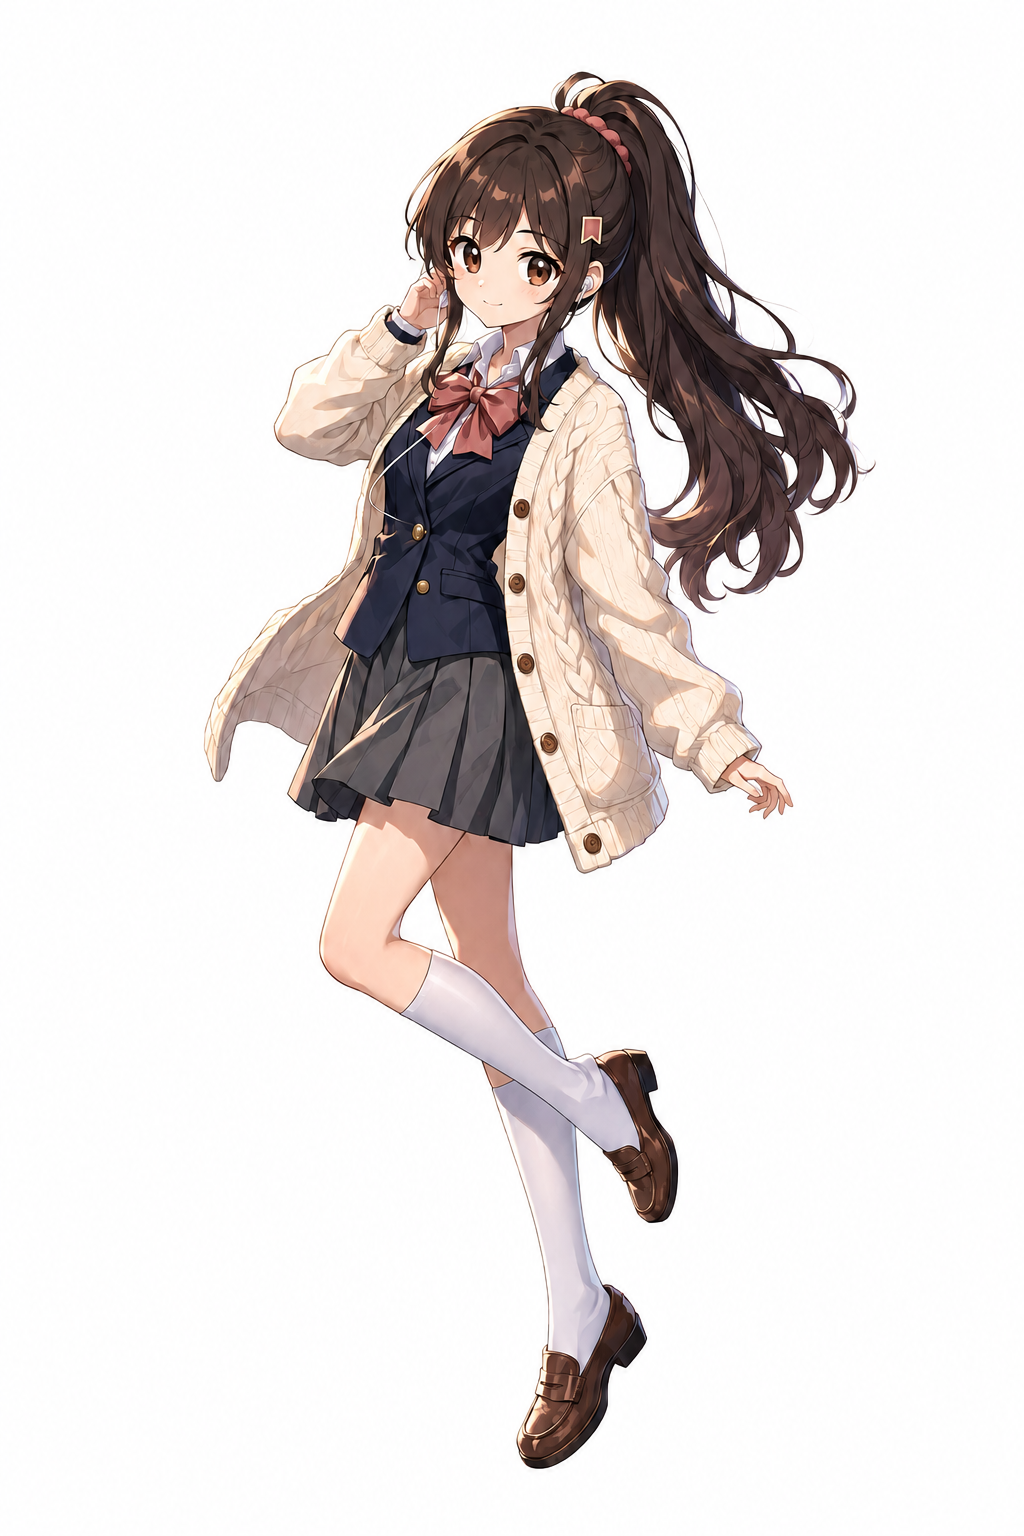
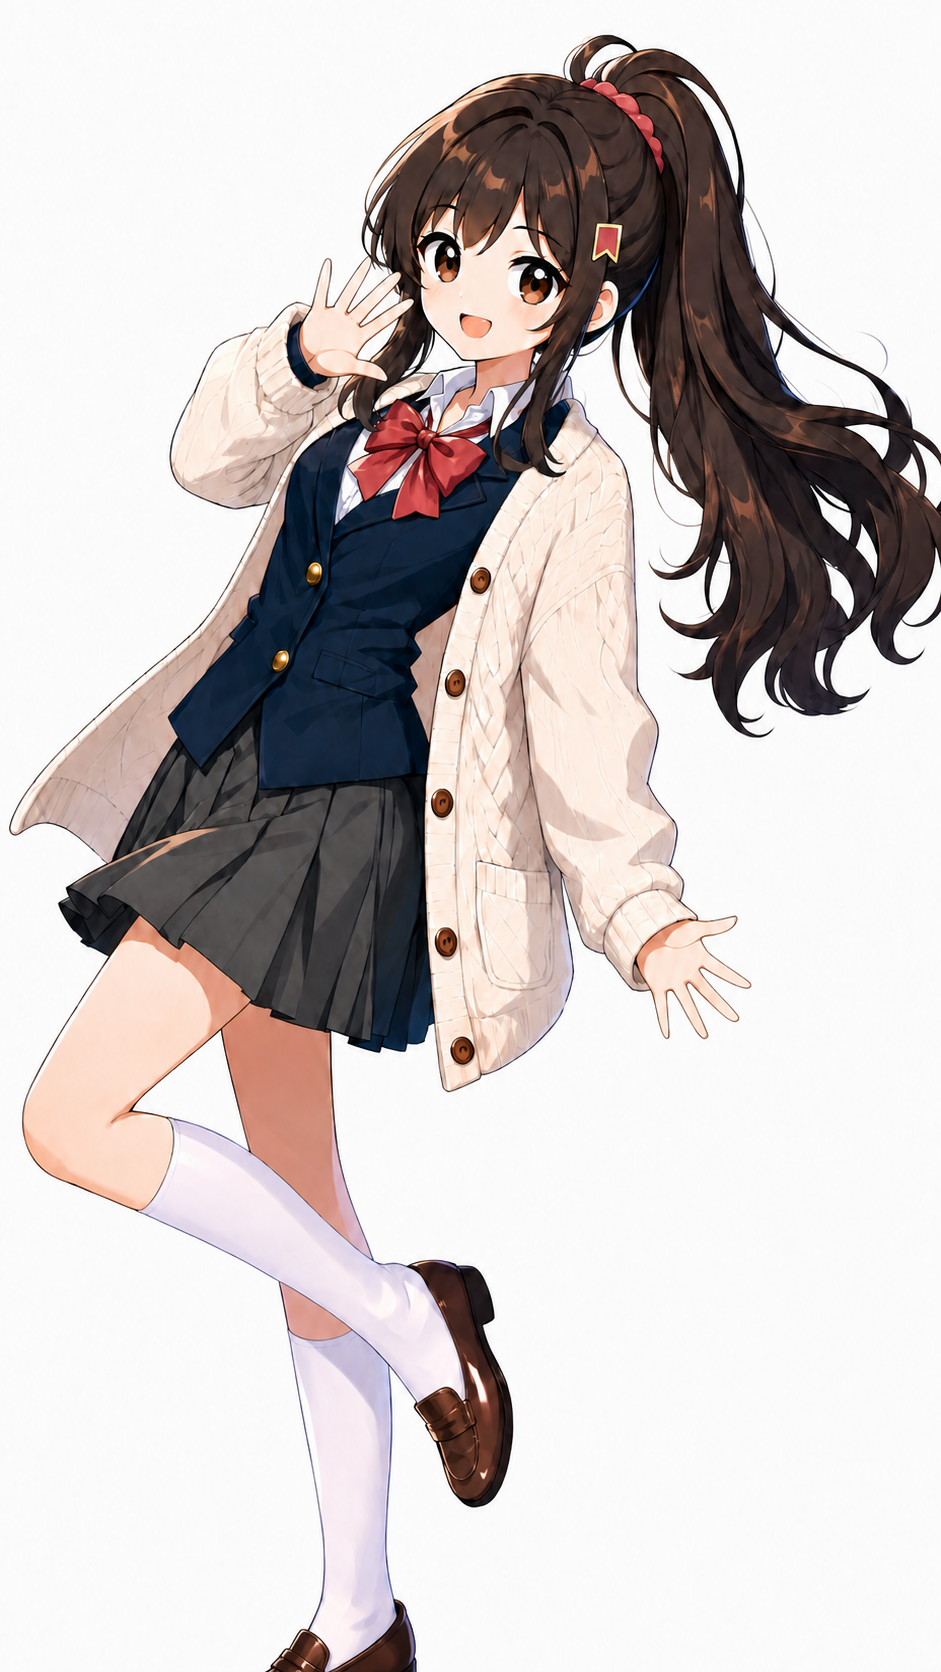
docs:major revision

diff --git a/_page/js/main.js b/_page/js/main.js
@@ -229,39 +229,87 @@
     canvas.style.display = "none";
   }
 
-  /* ───────────────────────── 横向卷轴「日常」 ───────────────────────── */
+  /* ───────────────────────── 横向卷轴「日常」（逐卡停靠） ───────────────────────── */
 
   var stripOuter = document.querySelector(".strip-outer");
   var stripTrack = document.querySelector(".strip-track");
   var wideQuery = window.matchMedia("(min-width: 861px)");
-  var stripDistance = 0;
-  var stripCurrent = 0;
-  var stripTarget = 0;
-  var stripProgress = 0; // 0..1，供度盘用
+  var STEP_VH = 1.2;      // 每张卡吃掉的滚动量（视口高的倍数），越大翻页越"沉"
+  var GLIDE_MS = 1050;    // 每次翻卡的滑移时长（毫秒），越大越从容
+  var stripDistance = 0;  // 横向可平移的最大距离（px）
+  var stripStops = [];    // 每张卡居中时的横向偏移（px）
+  var stripIdx = 0;       // 当前停靠的卡
+  var stripScrollLen = 0; // 整段的竖向滚动配额（px）
+  var stripCurrent = 0;   // 当前横向位置（px，缓动中）
+  var stripGoal = 0;      // 本段滑移的终点
+  var stripFrom = 0;      // 本段滑移的起点
+  var stripT0 = 0;        // 本段滑移的起始时间戳
+  var stripProgress = 0;  // 0..1，供度盘用
 
   function stripLayout() {
     if (!stripOuter || !stripTrack) return;
     if (!wideQuery.matches || reduceMotion) {
       stripOuter.style.height = "";
       stripTrack.style.transform = "";
+      stripTrack.style.paddingLeft = "";
+      stripTrack.style.paddingRight = "";
       stripDistance = 0;
       return;
     }
-    stripDistance = stripTrack.scrollWidth - window.innerWidth;
-    stripOuter.style.height = (window.innerHeight + stripDistance) + "px";
+    var panels = stripTrack.querySelectorAll(".panel");
+    if (!panels.length) return;
+    // 首尾补白：让第一张和最后一张也有"正中央"可停
+    stripTrack.style.paddingLeft = Math.max(0, (window.innerWidth - panels[0].offsetWidth) / 2) + "px";
+    stripTrack.style.paddingRight = Math.max(0, (window.innerWidth - panels[panels.length - 1].offsetWidth) / 2) + "px";
+    // 量出每张卡居中所需的横向偏移
+    stripStops = [];
+    var trackLeft = stripTrack.getBoundingClientRect().left;
+    for (var i = 0; i < panels.length; i++) {
+      var r = panels[i].getBoundingClientRect();
+      stripStops.push(Math.round((r.left - trackLeft) + r.width / 2 - window.innerWidth / 2));
+    }
+    // 平移上限=最后一张的停靠点（flex 容器的 scrollWidth 不含尾部 padding，不可用）
+    stripDistance = Math.max(0, stripStops[stripStops.length - 1]);
+    for (var j = 0; j < stripStops.length; j++) {
+      stripStops[j] = Math.max(0, Math.min(stripDistance, stripStops[j]));
+    }
+    stripIdx = Math.min(stripIdx, stripStops.length - 1);
+    stripScrollLen = Math.round(window.innerHeight * STEP_VH) * stripStops.length;
+    stripOuter.style.height = (window.innerHeight + stripScrollLen) + "px";
   }
 
-  function stripFrame() {
-    if (stripDistance > 0) {
+  function stripFrame(now) {
+    if (stripDistance > 0 && stripStops.length) {
       var top = stripOuter.getBoundingClientRect().top + window.scrollY;
-      var raw = (window.scrollY - top) / stripDistance;
-      stripTarget = Math.max(0, Math.min(1, raw));
-      stripCurrent += (stripTarget - stripCurrent) * 0.1;
-      if (Math.abs(stripTarget - stripCurrent) < 0.0004) stripCurrent = stripTarget;
-      stripTrack.style.transform = "translate3d(" + (-stripCurrent * stripDistance) + "px,0,0)";
-      stripProgress = stripCurrent;
+      var seg = stripScrollLen / stripStops.length;
+      var pos = (window.scrollY - top) / seg; // 以"卡"为单位的进度
+      var next = Math.max(0, Math.min(stripStops.length - 1, Math.floor(pos)));
+      if (next !== stripIdx) {
+        var frac = pos - Math.floor(pos);
+        // 边界迟滞：越过分界 6% 才换卡，避免停在边界处来回抖动
+        if (Math.abs(next - stripIdx) > 1 || (next > stripIdx ? frac >= 0.06 : frac <= 0.94)) stripIdx = next;
+      }
+      var target = stripStops[stripIdx];
+      if (target !== stripGoal) { // 换了目标卡：从当前位置起一段新的滑移
+        stripGoal = target;
+        stripFrom = stripCurrent;
+        stripT0 = now;
+      }
+      if (stripCurrent !== stripGoal) {
+        var t = Math.min(1, (now - stripT0) / GLIDE_MS);
+        stripCurrent = t >= 1 ? stripGoal : stripFrom + (stripGoal - stripFrom) * easeGlide(t);
+        stripTrack.style.transform = "translate3d(" + (-stripCurrent) + "px,0,0)";
+        stripProgress = stripDistance > 0 ? stripCurrent / stripDistance : 0;
+        // 滑移期间没有 scroll 事件，度盘时间在这里跟着刷新
+        if (dialNow) dialNow.textContent = currentHour();
+      }
     }
     requestAnimationFrame(stripFrame);
+  }
+
+  // easeInOutCubic：徐徐启动、中段滑行、缓缓落定
+  function easeGlide(t) {
+    return t < 0.5 ? 4 * t * t * t : 1 - Math.pow(-2 * t + 2, 3) / 2;
   }
 
   if (stripOuter && stripTrack && !flatMode) {
@@ -309,6 +357,8 @@
           var start = panels[p].offsetLeft;
           var end = start + panels[p].offsetWidth;
           if (x >= start && x <= end) {
+            var ownHour = panels[p].getAttribute("data-panel-hour");
+            if (ownHour) return ownHour;
             var timeEl = panels[p].querySelector(".panel-time");
             return timeEl ? timeEl.textContent.trim() : stripHour;
           }
@@ -442,7 +492,7 @@
   if (params.get("probe") === "1") {
     window.addEventListener("load", function () {
       setTimeout(function () {
-        var ids = ["dawn", "p0", "p1", "p2", "p3", "p4", "p5", "p6", "character", "memory", "privacy", "start", "download", "faq"];
+        var ids = ["dawn", "p0", "p1", "p2", "p3", "p4", "p5", "p6", "p7", "character", "memory", "privacy", "start", "download", "faq"];
         var lines = ids.map(function (id) {
           var el = document.getElementById(id);
           return el ? id + ": " + Math.round(el.getBoundingClientRect().top + window.scrollY) : id + ": -";
@@ -464,13 +514,16 @@
       var m = shotTarget.match(/^day(?::([\d.]+))?$/);
       if (m && stripOuter) {
         stripLayout();
-        var frac = m[1] ? parseFloat(m[1]) : 0;
+        var frac = Math.max(0, Math.min(1, m[1] ? parseFloat(m[1]) : 0));
         var top = stripOuter.getBoundingClientRect().top + window.scrollY;
-        y = top + stripDistance * frac;
+        y = top + stripScrollLen * frac;
         window.scrollTo(0, y);
-        stripCurrent = stripTarget = Math.max(0, Math.min(1, frac));
-        stripProgress = stripCurrent;
-        if (stripDistance > 0) stripTrack.style.transform = "translate3d(" + (-stripCurrent * stripDistance) + "px,0,0)";
+        if (stripStops.length) {
+          stripIdx = Math.max(0, Math.min(stripStops.length - 1, Math.floor(frac * stripStops.length)));
+          stripCurrent = stripStops[stripIdx];
+          stripProgress = stripDistance > 0 ? stripCurrent / stripDistance : 0;
+          stripTrack.style.transform = "translate3d(" + (-stripCurrent) + "px,0,0)";
+        }
       } else if (shotTarget !== "hero") {
         var el = document.getElementById(shotTarget);
         if (el) { y = el.getBoundingClientRect().top + window.scrollY + 2; window.scrollTo(0, y); }

diff --git a/index.html b/index.html
@@ -14,7 +14,7 @@
 <meta property="og:image:height" content="630">
 <link rel="icon" type="image/png" sizes="192x192" href="_page/assets/icon-192.png">
 <link rel="apple-touch-icon" href="_page/assets/icon-192.png">
-<link rel="stylesheet" href="_page/css/main.css?v=20260712-maccode">
+<link rel="stylesheet" href="_page/css/main.css?v=20260715-outro">
 </head>
 <body>
 
@@ -346,6 +346,12 @@
         </div>
       </article>
 
+      <article class="panel panel-intro panel-outro" id="p7" data-panel-hour="21:00" style="--panel-bg:#B24672">
+        <div class="panel-body">
+          <h2 class="outro-title" lang="ja">「キミの記憶」</h2>
+        </div>
+      </article>
+
     </div>
   </div>
 </section>
@@ -428,7 +434,7 @@
           <figcaption>Mac · Live2D 桌宠</figcaption>
         </figure>
         <figure class="device-phone">
-          <img src="_page/assets/miru-hero.png" alt="手机屏幕上的 Miru">
+          <img src="_page/assets/miru-hero.png?v=20260714-whitebg" alt="手机屏幕上的 Miru">
           <i class="phone-status" aria-hidden="true"></i>
         </figure>
         <p class="char-devices-note">记忆同步在你自己的服务器上——换台设备，她还是认得你。</p>
@@ -546,7 +552,7 @@
       <aside class="memory-side" aria-label="承诺和日记">
         <div class="memory-side-top">
           <figure class="night-art memory-portrait">
-            <img src="_page/assets/miru-hero.png" alt="深夜的 Miru，长发披下，安静地站着">
+            <img src="_page/assets/miru-hero.png?v=20260714-whitebg" alt="深夜的 Miru，高马尾，笑着朝你挥手">
           </figure>
           <article class="commit-card">
             <p class="memory-label">COMMITMENTS</p>
@@ -710,6 +716,6 @@
   </div>
 </footer>
 
-<script src="_page/js/main.js?v=20260712-prologue"></script>
+<script src="_page/js/main.js?v=20260715-outro"></script>
 </body>
 </html>

diff --git a/_page/css/main.css b/_page/css/main.css
@@ -378,6 +378,18 @@ a:hover { text-decoration: underline; }
 }
 .panel-intro { width: 100vw; grid-template-columns: 1fr; }
 
+/* 收尾卡：一天收进「キミの記憶」 */
+.panel.panel-outro { grid-template-columns: 1fr; place-content: center; place-items: center; }
+.panel-outro .panel-body { align-self: center; padding-bottom: 0; text-align: center; }
+.outro-title {
+  font-family: var(--serif);
+  font-size: clamp(2.4rem, 6.5vw, 5.8rem);
+  line-height: 1.2;
+  letter-spacing: .04em;
+  color: #FFF0F5;
+  text-shadow: 0 8px 44px rgba(74, 16, 42, .38);
+}
+
 .panel-time {
   position: absolute; top: 9vh; left: 3.4vw;
   font-family: var(--serif);
